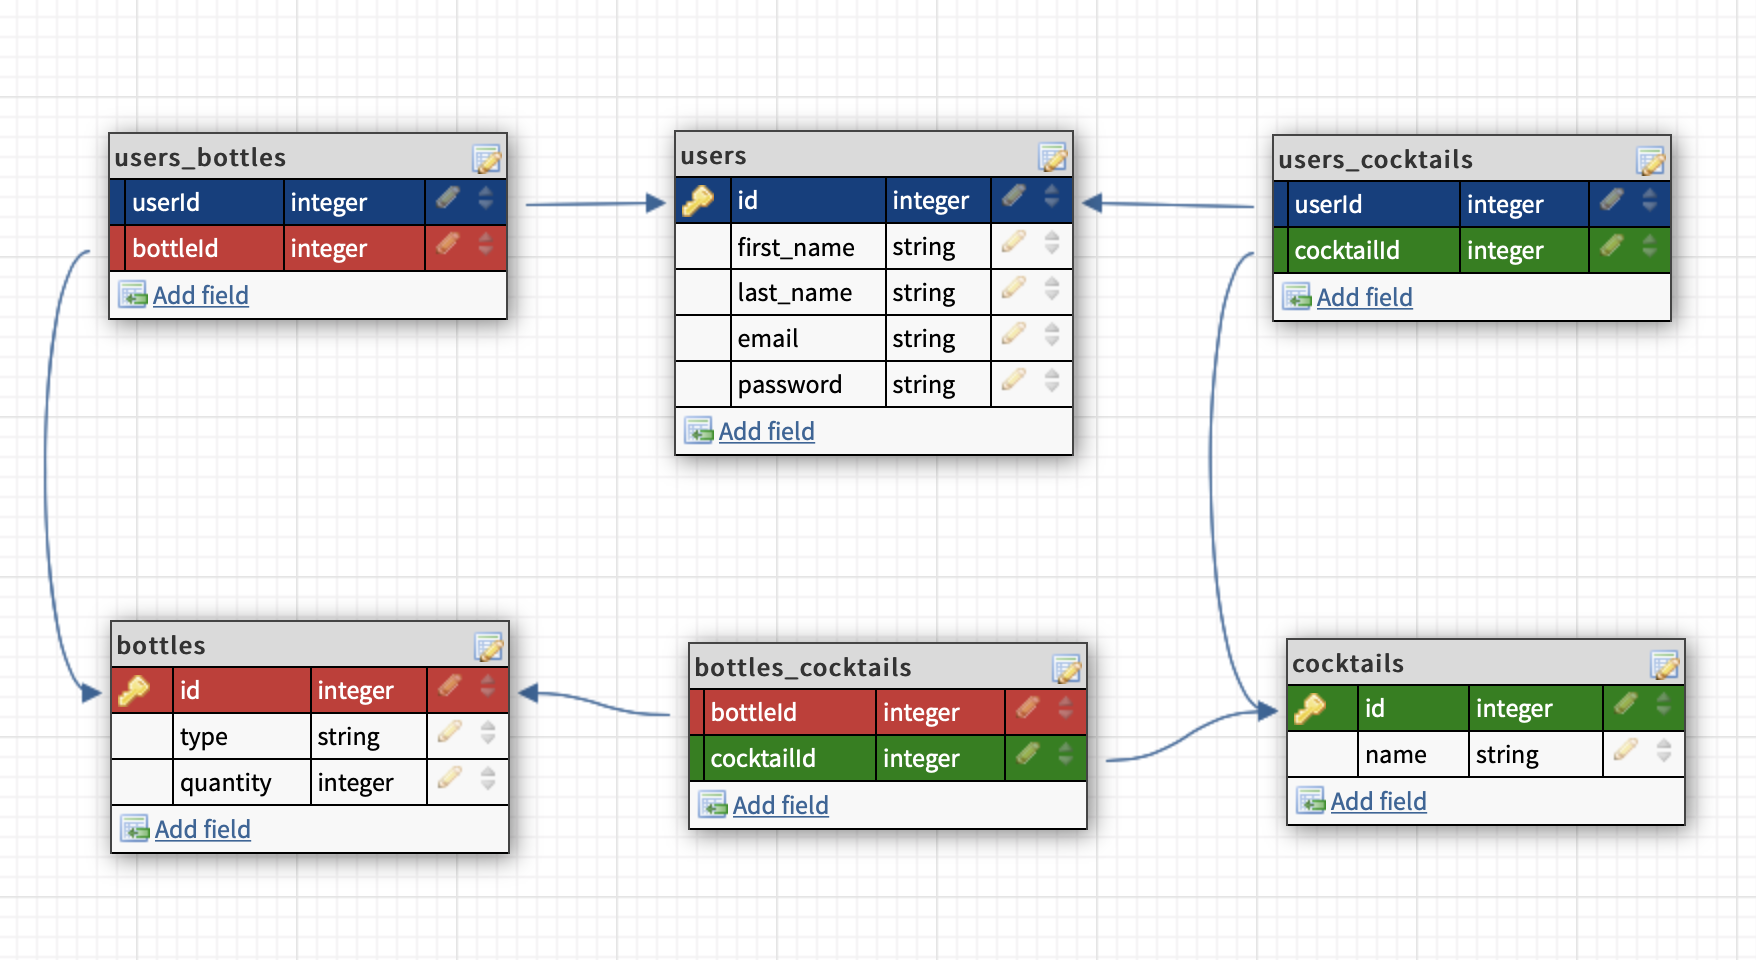
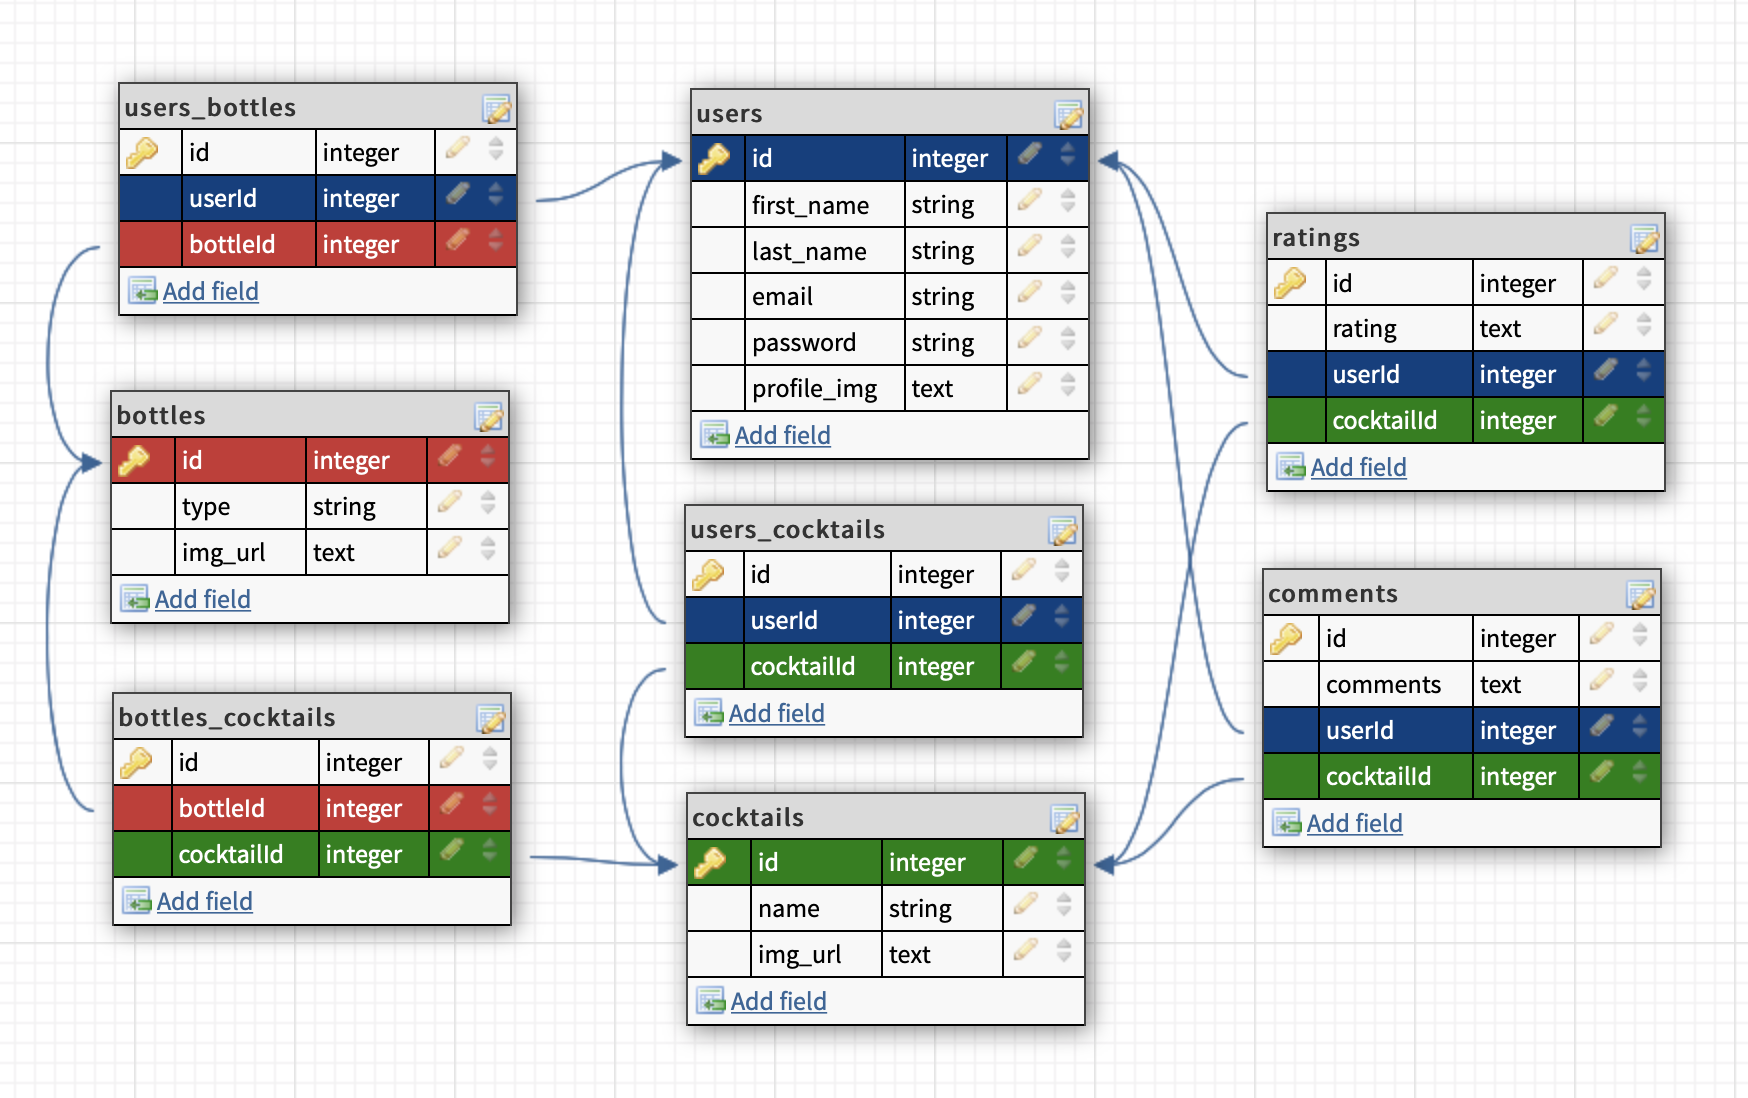
Finish Readme, Wireframe, ERD, and route plan

diff --git a/README.md b/README.md
@@ -1,0 +1,88 @@
+# The Cocktail Cabinet #
+
+The cocktail cabinet is an app that allows users to log in and build their digital liquor cabinet. Update your profile with the quantity of bottles you have in your physical liquor cabinet, and then browse through possible cocktails to make using what you have on hand! If you find a recipe that sounds good, save it to your profile to access anytime you log in. Your possible cocktail list will change depending on updates to your liquor cabinet.
+
+
+### MVP goals ###
+
+Have a sign up page for new users to join the site.\
+Have a login page for user to access site.\
+Look through a page of liquor bottles with a button to add to your collection.\
+Be able to look through collection, updating or deleting bottles.\
+Access list of cocktails based on what's available in your bottle collection.\
+Add cocktails to your saved recipes, with the ability to view and delete them.
+
+
+### Stretch goals ###
+
+Add a page to view all cocktails, regardless of what's in user's liquor cabinet.\
+Add ability to view recipes, regardless of sign-in.\
+Make it possible for a user to rate cocktails.\
+Be able to see all users ratings aggregated on individual cocktails.\
+Comment on cocktails and see other users comments.\
+Add styling to have liquor bottles sitting on shelf.
+
+
+### User stories ###
+
+* As a user, I want to sign up for an account so that I can begin using the sites features and saving my information
+* As a user, I want to login to the site so that I can access my information that I have saved previously.
+* As a user, I want to look through a page of liquor bottles that I can add to my collection so I can keep track of what I have on hand.
+* As a user, I want to browse my collection of liquor bottles so that I can add, subtract, or delete bottles from my list.
+* As a user, I want to look through a list of cocktails recommended to me based on what I've saved in my liquor cabinet, so that I can save them to my favorite recipes.
+* As a user, I want to be able to look at a list my favorite recipes so that I can access them individually or delete them.
+* As a user, I want to be able to logout so that my information is saved in the database, but is not accessible by other users.
+
+
+### Explanation of the APIs you plan to use ###
+
+I am planning on using The Cocktail DB, which is a free, crowd-sourced API full of information about cocktails and their ingredients.
+
+
+### Daily sprints ###
+
+* Monday
+  * Finish Readme
+  * Wireframe App
+  * Plan db ERD
+  * Plan routes chart
+  * Begin setting up npm, sequelize, and express.
+
+* Tuesday
+  * Create and test db models.
+  * Stub out all routes based on RESTful chart.
+  * Build out routes in specific controllers.
+  * Create all necessary folders and files in project.
+
+* Wednesday
+  * Finish all routes and check connection to db.
+  * Build out views; layout, and specific routes.
+
+* Thursday
+  * Finish and clean up all views and routes.
+  * Finish MVP.
+
+* Friday
+  * Style views.
+  * Stretch goals.
+
+* Saturday
+  * Stretch Goals.
+
+* Sunday
+  * Stretch Goals.
+
+### Wireframes ###
+![State-1](./img/wireframe/State-1.png)
+![State-2](./img/wireframe/State-2.png)
+![State-3](./img/wireframe/State-3.png)
+![State-4](./img/wireframe/State-4.png)
+![State-5](./img/wireframe/State-5.png)
+![State-6](./img/wireframe/State-6.png)
+
+### Database ERDs ###
+![erd](./erd.png)
+
+### RESTful routing chart for your app ###
+![Routes-1](./img/Routes-1.png)
+![Routes-2](./img/Routes-2.png)
